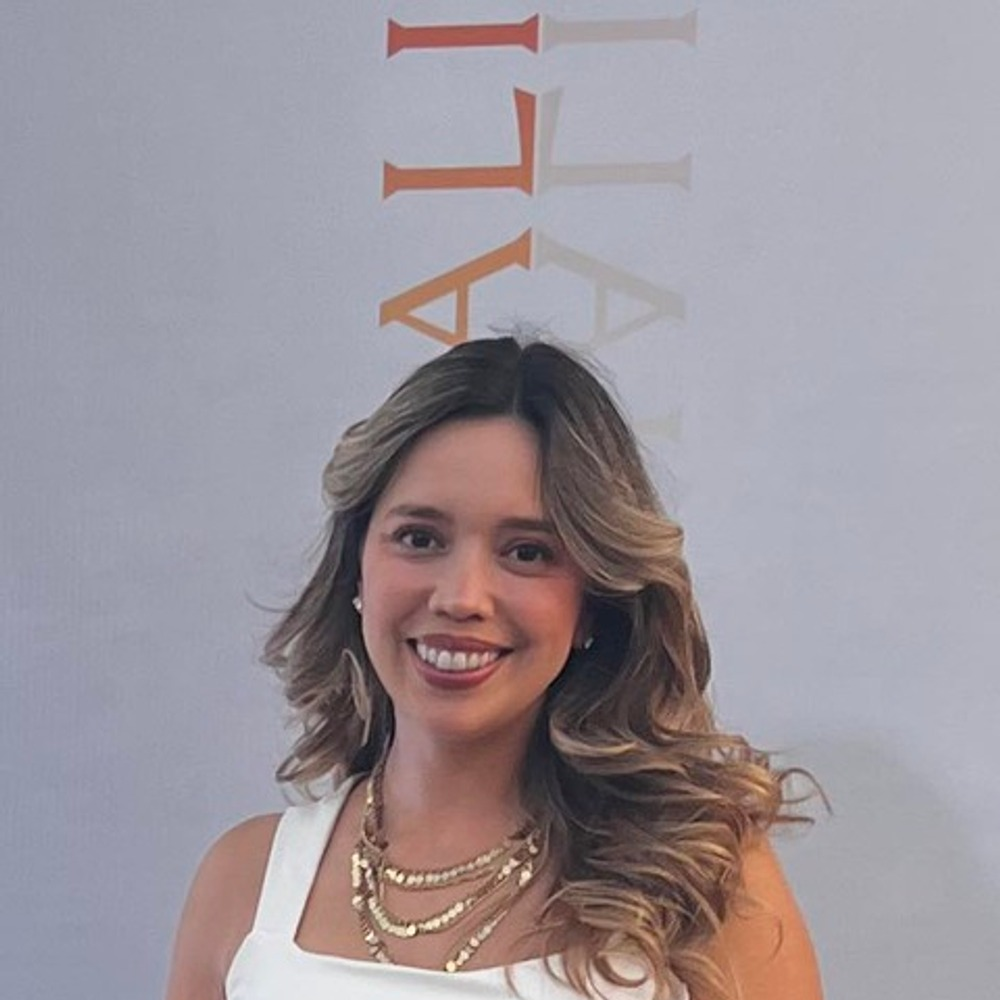
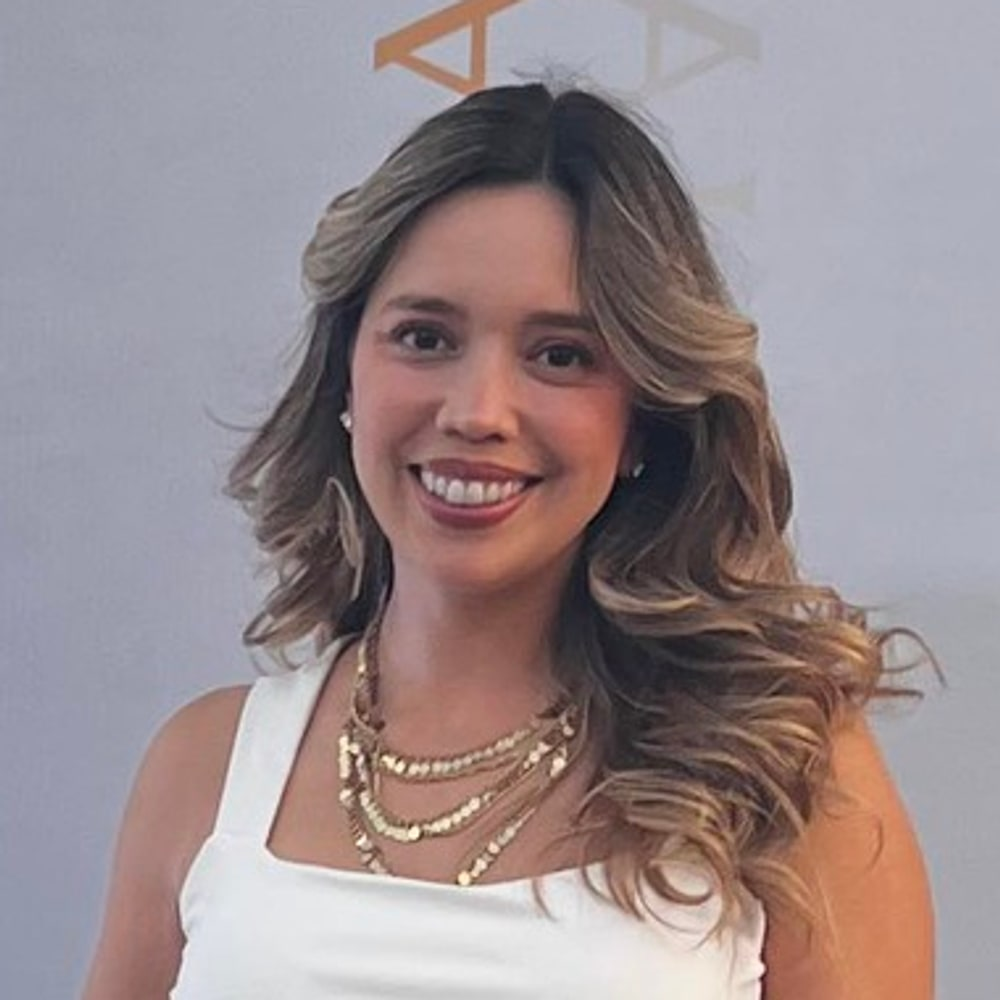
fix(partners): recortar la foto de Yasna con la cara al centro
El recorte anterior dejaba la cara en la mitad de abajo del cuadrado;
el círculo del avatar mostraba la frente y el letrero QUALITY.

diff --git a/public/partners/README.md b/public/partners/README.md
@@ -13,6 +13,12 @@ Ejemplo: Katherine Meza → `katherine.jpg`
 - JPG o PNG
 - Color de origen: no hace falta preprocesar a blanco y negro
 
+El avatar de la landing es un círculo sobre `object-fit: cover`: recorta el
+**centro** del cuadrado. Si la cara queda en la mitad de abajo (banner de
+evento arriba), el círculo muestra la frente y el letrero. Yasna en
+`/partner/yv` ya falló así — recortar desde `public/images/home/yasna.jpg`
+con la cara en el centro, no reusar un cuadrado “amplio”.
+
 Si el archivo no está, la landing y la imagen OG muestran las iniciales sobre `#F7F6F3`. Nunca un ícono roto.
 
 La ruta pública es `/partners/<slug>.jpg` y coincide con el campo `photo` en `src/lib/partners.ts`.

diff --git a/AGENTS.md b/AGENTS.md
@@ -395,7 +395,9 @@ por WhatsApp».
 El clip de CNN es el mismo de `/plataforma` (`PressCNN`): Vimeo
 `1205127087`, src en `PARTNER_CNN_VIMEO_SRC`. Foto del partner:
 `public/partners/<slug>.jpg` (ver `public/partners/README.md`); si falta, las
-iniciales — nunca un img roto.
+iniciales — nunca un img roto. El círculo recorta el centro del cuadrado: la
+cara tiene que ir al medio, no abajo. El primer recorte de Yasna mostró la
+frente y el letrero QUALITY/VITALITY.
 
 **El dato de cara al referido es el 10% × 3 meses**, no el bono de US$ 150.
 El US$ 150 es lo que cobra el partner; vive en `/partners`. En
